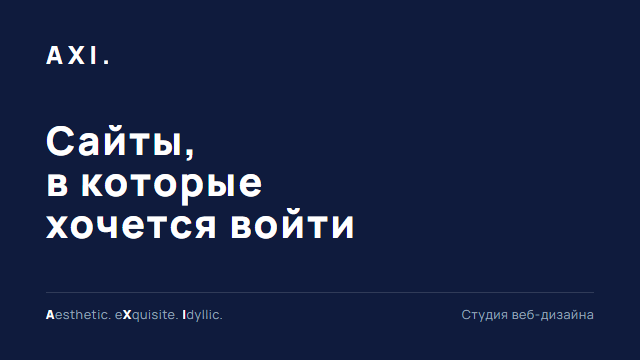
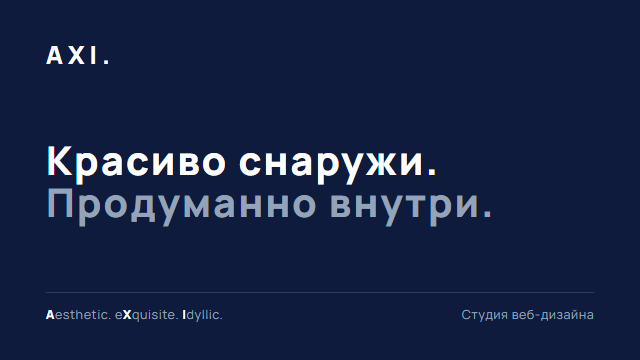
New slogan: Красиво снаружи. Продуманно внутри.

Changed region(s): [[0.0625, 0.3361, 0.7812, 0.6722]]

diff --git a/index.html b/index.html
@@ -7,7 +7,7 @@
 
   <!-- SEO и превью ссылки. Эти значения читают Telegram и соцсети без JavaScript,
        поэтому их нужно поменять здесь вручную (название, описание, адрес сайта). -->
-  <title>AXI. · Студия веб-дизайна. Сайты под ключ</title>
+  <title>AXI. · Красиво снаружи. Продуманно внутри.</title>
   <meta name="description" content="AXI. Студия веб-дизайна: проектируем и запускаем сайты под ключ. Дизайн, вёрстка, тексты и запуск. Aesthetic. eXquisite. Idyllic.">
   <link rel="canonical" href="https://lookatmedev.github.io/">
 
@@ -15,7 +15,7 @@
   <meta property="og:locale" content="ru_RU">
   <meta property="og:site_name" content="AXI.">
   <meta property="og:title" content="AXI. · Студия веб-дизайна">
-  <meta property="og:description" content="Сайты под ключ: от концепции и дизайна до запуска. Aesthetic. eXquisite. Idyllic.">
+  <meta property="og:description" content="Красиво снаружи. Продуманно внутри. Сайты под ключ: от концепции и дизайна до запуска.">
   <meta property="og:url" content="https://lookatmedev.github.io/">
   <meta property="og:image" content="https://lookatmedev.github.io/assets/og-image.png">
   <meta property="og:image:width" content="1200">
@@ -23,7 +23,7 @@
 
   <meta name="twitter:card" content="summary_large_image">
   <meta name="twitter:title" content="AXI. · Студия веб-дизайна">
-  <meta name="twitter:description" content="Сайты под ключ: от концепции и дизайна до запуска. Aesthetic. eXquisite. Idyllic.">
+  <meta name="twitter:description" content="Красиво снаружи. Продуманно внутри. Сайты под ключ: от концепции и дизайна до запуска.">
   <meta name="twitter:image" content="https://lookatmedev.github.io/assets/og-image.png">
 
   <link rel="icon" href="assets/favicon.svg" type="image/svg+xml">
@@ -33,8 +33,8 @@
   <link rel="preconnect" href="https://fonts.gstatic.com" crossorigin>
   <link href="https://fonts.googleapis.com/css2?family=Manrope:wght@400;800&display=swap" rel="stylesheet">
 
-  <link rel="stylesheet" href="style.css?v=3">
-  <script src="script.js?v=3" defer></script>
+  <link rel="stylesheet" href="style.css?v=4">
+  <script src="script.js?v=4" defer></script>
 </head>
 <body>
   <a class="skip-link" href="#main">Перейти к содержимому</a>
@@ -69,7 +69,7 @@
     <section class="hero" aria-labelledby="hero-title">
       <div class="container">
         <p class="meta reveal" data-config="tagline">Студия веб-дизайна · Сайты под ключ</p>
-        <h1 class="hero__title reveal" id="hero-title" data-config="offer">Сайты, в&nbsp;которые хочется войти</h1>
+        <h1 class="hero__title reveal" id="hero-title" data-config-offer><span class="hero__line">Красиво снаружи.</span> <span class="hero__line">Продуманно внутри.</span></h1>
         <div class="hero__grid">
           <p class="hero__lead reveal" data-config="offerText">Проектируем и запускаем сайты под ключ. Концепция, дизайн, тексты, вёрстка и запуск в одних руках.</p>
           <div class="hero__actions reveal">

diff --git a/style.css b/style.css
@@ -361,12 +361,21 @@ ul, ol {
 }
 
 .hero__title {
-  max-width: 13ch;
+  max-width: none;
   margin-top: 32px;
   font-weight: 800;
   font-size: clamp(40px, 8vw, 96px);
   line-height: 1.04;
   letter-spacing: 0.05em;
+}
+
+.hero__line {
+  display: block;
+}
+
+/* вторая фраза слогана приглушена */
+.hero__line + .hero__line {
+  color: var(--muted);
 }
 
 .hero__grid {

diff --git a/script.js b/script.js
@@ -87,6 +87,8 @@ function applyConfig() {
     email: "mailto:" + CONFIG.email,
   };
 
+  $("[data-config-offer]").replaceChildren(...CONFIG.offer.map((line) => el("span", { class: "hero__line", text: line })));
+
   $$("[data-config]").forEach((node) => {
     const value = values[node.dataset.config];
     if (typeof value === "string") node.textContent = value;
